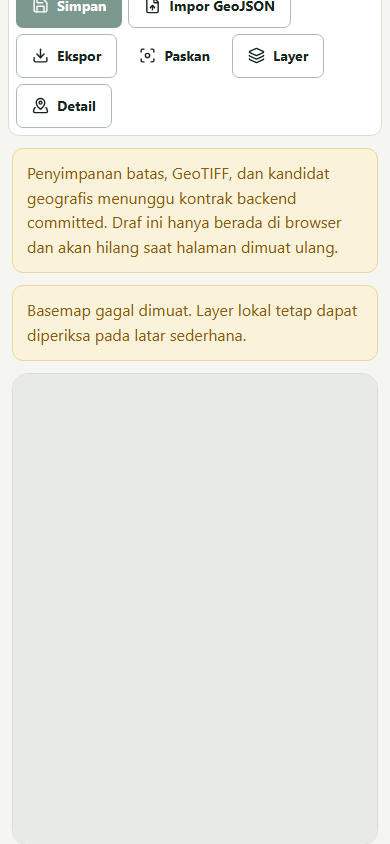
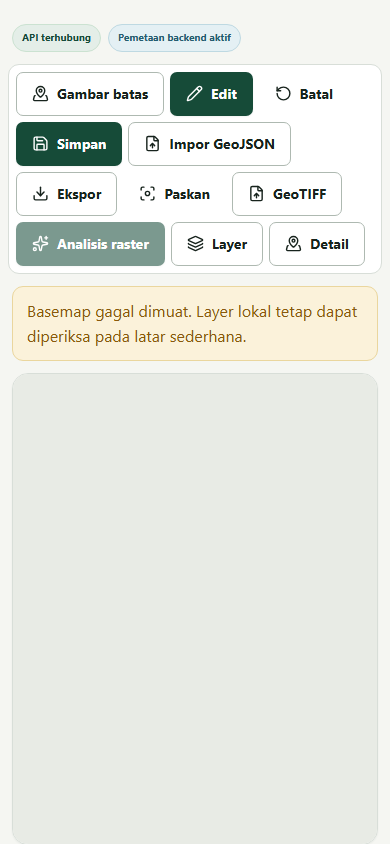
docs: hand off revision 5 mapping workspace

Changed region(s): [[0.0308, 0.0, 0.9846, 0.4313]]

diff --git a/docs/handoff/codex.md b/docs/handoff/codex.md
@@ -1,93 +1,84 @@
 # Codex frontend handoff — workspace pemetaan, 20 Oktober 2026
 
-## Delivery pemetaan
+## Delivery pemetaan revision 5
 
 - Branch/worktree: `agent/codex-mapping` / `D:\coding\wallacea-worktrees\codex-mapping`.
 - Base frontend: `1cb6d5183eebb458c4e341981503e0d70a164537`.
-- Commit implementasi shell peta: `472fe7563ba18b4866f8255eeab396a07ae82aed`.
-- Sumber kontrak terakhir yang sudah committed dan dibaca: Claude
-  `1ecda6c4eef476aaed84a212623c9ade9e696846`, OpenAPI revision 4.
-- Pada saat handoff ini ditulis, perubahan geospasial Claude masih belum committed.
-  Jangan mengintegrasikan file backend yang masih dirty; ambil SHA `CONTRACT_READY`
-  baru dari Claude lebih dahulu.
-- Tidak ada push, merge `main`, deploy, perubahan backend/OpenAPI, model, atau dataset.
+- Commit shell awal: `472fe7563ba18b4866f8255eeab396a07ae82aed`, disusul
+  `0c327c2`, `e04ae04`, `834f411`, dan `a3c9a2c`.
+- Sumber kebenaran Claude: backend `40ba48764e9107f3aafb253b8bf9a4431a4e9977`,
+  OpenAPI revision 5 `f2e770f7f9a4b51b0923ccc49971c0c6c7ffc2c2`, dan docs
+  `1d1d36ce858bbc2a1d2b1a468bdcd56e1ef910d2`.
+- Commit integrasi revision 5: `e0c598d` (`feat(web): integrate revision 5 mapping
+  API`). Commit dokumentasi/screenshot menyusul commit ini. Tidak ada push, merge
+  `main`, deploy, perubahan backend/OpenAPI, model, atau dataset.
 
-### Yang sudah tersedia
+### Sebelum / sesudah
 
-- Navigasi survei eksplisit **Peta lahan / Foto & AI / Laporan**. Editor foto,
-  persistence anotasi, transformasi koordinat normalized, dan laporan existing tidak
-  diubah.
-- Workspace MapLibre dominan dengan panel layer/detail yang dapat diringkas pada
-  desktop dan Sheet pada tablet/HP.
-- Terra Draw Polygon/select untuk menggambar dan mengedit draf; impor menerima tepat
-  satu Polygon/MultiPolygon WGS84 dengan urutan longitude, latitude. GeoJSON invalid,
-  range koordinat, ring terbuka, dan jumlah feature ditolak dengan pesan Indonesia.
-- Turf menampilkan luas/keliling sebagai **Preview Turf**, bukan angka tersimpan.
-  Ekspor GeoJSON mempertahankan geometry dan menambahkan nama/sumber draf.
-- Basemap OpenStreetMap dikonfigurasi dengan atribusi terlihat dan label jelas bahwa
-  ia membutuhkan internet serta bukan citra satelit. Bila tile gagal, boundary lokal
-  tetap terlihat pada fallback netral.
-- Draft map ikut proteksi navigasi dan `beforeunload`; hapus draf memakai konfirmasi.
-- MapLibre/Terra Draw/Turf dimuat lewat lazy chunk sehingga editor foto tidak menarik
-  bundle GIS ketika workspace peta belum dibuka.
+Sebelum revision 5, workspace hanya memiliki draf batas lokal: simpan dan GeoTIFF
+dinonaktifkan karena kontrak belum tersedia. Sesudah integrasi, frontend memakai API
+nyata untuk CRUD/impor batas, tautan `Survey.field_id`, metrik geodesik authoritative,
+`If-Match` dan pemulihan konflik; upload/progress/tile GeoTIFF dengan bounds dan CRS;
+serta run dan kandidat geografis pending/accepted/rejected.
 
-### Batas kontrak yang sengaja tidak dipalsukan
+Map tetap menjadi fokus. Panel desktop dapat diringkas; tablet/HP memakai Sheet. Terra
+Draw menangani gambar/edit Polygon, Turf hanya memberi preview sebelum save, dan
+MapLibre menampilkan tile raster serta kandidat berdasarkan geometri WGS84 dari API.
+Foto biasa tidak diproyeksikan. Impor GeoTIFF tidak diklaim sebagai orthomosaic atau
+georeferensi yang diverifikasi WALLACEA.
 
-Revision 4 belum memiliki boundary CRUD, raster GeoTIFF, tile/bounds/CRS, atau kandidat
-AI geografis. Karena itu tombol **Simpan** dan **Unggah GeoTIFF** tetap disabled dengan
-alasan yang terlihat; draf diberi label lokal dan dinyatakan hilang saat reload. Tidak
-ada endpoint buatan, persistence palsu, proyeksi foto JPG/PNG, polygon otomatis, atau
-hasil AI geografis. Kebutuhan lengkap tercatat di
-`docs/requests/codex-mapping-contract.md` sebagai CR-FE-005.
+Simulasi memakai banner permanen **SIMULASI — BUKAN AI**, kandidat dimulai sebagai
+pending, skor disebut skor model, dan hanya kandidat `kind=plant` yang accepted masuk
+hitungan per-raster. Laporan menambahkan batas dan ringkasan tiap raster serta menolak
+klaim bahwa hitungan lintas raster/penerbangan adalah tanaman unik.
 
-Setelah Claude memberi kontrak committed, frontend masih harus menghubungkan:
+Basemap memakai tile standar OpenStreetMap dengan atribusi terlihat dan penjelasan
+bahwa layanan memerlukan internet serta bukan citra satelit. Kegagalan tile tidak
+menyembunyikan boundary/raster lokal. CR-FE-005 kini ditandai dipenuhi; tidak ada
+request kontrak baru.
 
-1. boundary query/mutation + `If-Match`, backend metrics authoritative, conflict/reload;
-2. upload/status/tile GeoTIFF, opacity, bounds, footprint, metadata CRS;
-3. geographic findings, detail raster/run, filter pending/accepted/rejected, dan
-   accepted-only summary;
-4. capability/limit discovery granular, lalu tes API nyata untuk save/reload, edit,
-   cancel, conflict, delete, raster placement, dan review kandidat.
+### Verifikasi aktual
 
-### Verifikasi aktual pemetaan
-
+- `pnpm --filter @wallacea/web generate:api`: lulus dari OpenAPI revision 5.
 - `pnpm install --frozen-lockfile`: lulus; lockfile supply-chain check lulus.
-- Type generation dari OpenAPI committed Claude revision 4: lulus dan menghasilkan
-  tidak ada diff pada `apps/web/src/api/schema.d.ts`.
 - `pnpm typecheck:web`: lulus.
 - `pnpm --filter @wallacea/web test`: **26/26 lulus** dalam 5 file.
-- `pnpm build:web`: lulus; warning chunk MapLibre/editor >500 kB tetap tercatat.
-- `pnpm peers check`: lulus, tidak ada masalah peer dependency.
+- `pnpm build:web`: lulus. Vite hanya memperingatkan chunk MapLibre/editor >500 kB;
+  workspace GIS sudah lazy-loaded dan menjadi chunk terpisah.
+- `pnpm peers check`: lulus tanpa masalah peer dependency.
 - `git diff --check`: lulus.
-- Focused Playwright mapping: **6/6 lulus** pada Chromium 1440×900, 820×1180,
-  dan 390×844. Skenario menguji impor boundary QA sintetis, preview, UI responsif,
-  Sheet, API capability tidak tersedia, tombol save disabled, GeoJSON invalid, dan
-  tile OSM yang sengaja digagalkan. Ini tes UI/kontrak lokal, bukan integrasi backend.
-- Screenshot viewport yang diperiksa: `docs/handoff/screenshots/mapping/desktop.png`,
-  `tablet.png`, dan `mobile.png`. Desktop/tablet memperlihatkan boundary tetap terlihat
-  pada fallback ketika tile gagal; mobile memverifikasi toolbar wrap dan kanvas tanpa
-  panel permanen.
-- Regresi Playwright workspace existing dijalankan terhadap snapshot API Claude
-  revision 4 yang committed, pada DB QA terpisah: run pertama **15/18 lulus** dan tiga
-  kegagalan identik hanya karena selector `/Laporan/` menjadi ambigu setelah navigasi
-  baru. Selector dipersempit ke nav `Ruang kerja survei`; ketiga skenario gagal tadi
-  kemudian **3/3 lulus** pada desktop/tablet/mobile. Alurnya mencakup demo, multi-upload,
-  EXIF, anotasi manual, undo/redo, save/reload, konflik, API offline/retry, ekspor,
-  laporan, backup, edit/delete survei, dan isolasi foto.
-- Tes API nyata untuk persistence/raster/geographic findings **belum dapat dijalankan**
-  karena kontrak/commit Claude belum tersedia. Tes regresi API existing tidak diklaim
-  dijalankan ulang pada delivery pemetaan ini; hasil delivery frontend sebelumnya ada
-  di bagian historis di bawah.
+- Backend revision 5 `python -m pytest`: **244 lulus, 2 skip**, dengan dua warning
+  Rasterio yang memang berasal dari fixture raster tanpa georeferensi/GCP.
+- Playwright status model: **3/3 lulus**; manual, configured, loaded, error, dan
+  simulasi diperiksa jujur pada desktop/tablet/mobile.
+- Playwright UI pemetaan terisolasi: **8 lulus, 1 skip**. Skip adalah emulasi gestur
+  gambar sentuh mobile; impor GeoJSON, validasi, Sheet, dan responsivitas mobile lulus.
+- Playwright API revision 5: **6/6 lulus** pada Chromium 1440×900, 820×1180, dan
+  390×844. Alur mencakup save/reload batas, metrik backend, konflik/reload, cancel,
+  ekspor/hapus, upload GeoTIFF nyata, TileJSON/bounds, simulasi pending→accepted,
+  laporan accepted-only, dan penghapusan raster.
+- Regresi workspace foto terhadap API revision 5 mode manual: **18/18 lulus** pada
+  ketiga viewport. Ini mencakup demo, multi-upload/EXIF/invalid, draf/undo/redo,
+  save/reload, konflik, proteksi navigasi, API offline/retry, canvas zoom/pan,
+  ekspor, backup, laporan, serta edit/delete survei.
+- Inferensi model asli tidak dijalankan karena bobot tanaman terlatih tidak tersedia.
+  Pengujian kandidat geografis memakai detector simulasi backend dan selalu diberi
+  label data QA/bukan AI.
+
+Screenshot baseline shell lokal: `docs/handoff/screenshots/mapping/desktop.png`,
+`tablet.png`, `mobile.png`. Screenshot revision 5 dengan raster/kandidat dan keadaan
+review setara: `rev5-desktop.png`, `rev5-tablet.png`, `rev5-mobile.png`. Semuanya telah
+diperiksa pada ukuran viewport yang tepat; basemap sengaja digagalkan agar fallback,
+raster lokal, atribusi, dan pesan offline dapat diverifikasi deterministik.
 
 ### Urutan integrasi yang aman
 
-1. Minta SHA final Claude yang menyatakan `CONTRACT_READY` untuk mapping, lalu integrasikan
-   commit backend/migrasi/OpenAPI itu ke `integration/wallacea-mvp`.
-2. Regenerasi tipe dari snapshot tersebut dan selesaikan adapter API di branch Codex;
-   jangan memakai nama endpoint dari CR-FE-005 sebagai fakta kontrak.
-3. Cherry-pick `472fe75`, lalu commit integrasi API lanjutan dan commit handoff terbaru.
-4. Jalankan export/check kontrak, migrasi DB sementara, seluruh pytest backend, typecheck,
-   Vitest, build, peer check, dan Playwright API nyata pada tiga viewport.
+1. Cherry-pick Claude `40ba487`, lalu `f2e770f`, lalu `1d1d36c` ke
+   `integration/wallacea-mvp` jika commit itu belum ada.
+2. Cherry-pick rangkaian Codex `472fe75`, `0c327c2`, `e04ae04`, `834f411`,
+   `a3c9a2c`, lalu `e0c598d`, kemudian commit dokumentasi/screenshot sesudahnya.
+3. Jalankan export/check kontrak, migrasi DB sementara, seluruh pytest backend,
+   typecheck, Vitest, build, peer check, serta kedua suite Playwright API nyata.
 
 ---
 

diff --git a/apps/web/README.md b/apps/web/README.md
@@ -1,8 +1,8 @@
 # WALLACEA web
 
 React frontend for API v1. Generated types consume the additive contract revision
-4 from Claude's latest backend handoff while remaining compatible with revisions
-1–3. No
+5 from Claude's latest backend handoff while remaining compatible with revisions
+1–4. No
 mock service is enabled by default. The application needs the real FastAPI service.
 
 ## Run
@@ -29,14 +29,17 @@ Vite preview does not provide the development API proxy.
   workspaces. The map workspace uses MapLibre and Terra Draw for an honest local
   boundary draft, and accepts exactly one valid WGS84 Polygon/MultiPolygon GeoJSON.
 - Boundary area/perimeter shown before save are clearly labelled **Preview Turf**.
-  They are not backend measurements. The committed revision-4 API has no boundary,
-  raster, or geographic-finding endpoint, so save and GeoTIFF upload remain disabled
-  with an explanation. See `docs/requests/codex-mapping-contract.md`.
+  After save, revision-5 backend geodesic measurements become authoritative. Boundary
+  create/update/delete uses revision checks and conflict recovery, while GeoJSON import
+  and export preserve WGS84 longitude/latitude geometry.
 - The default basemap is the online OpenStreetMap standard raster service with
   visible attribution. It is not satellite imagery and is not available offline.
   If tiles fail, local boundary geometry remains usable over a neutral background.
-- GeoTIFF is intentionally separate from ordinary JPG/PNG photo upload. The browser
-  does not pretend an ungeoreferenced image belongs at a map location.
+- GeoTIFF is intentionally separate from ordinary JPG/PNG photo upload. Revision 5
+  stores the raster server-side and exposes bounded tiles; the browser does not pretend
+  an ungeoreferenced image belongs at a map location. Imported raster georeferencing is
+  displayed as supplied and is not claimed to be verified or an orthomosaic generated
+  by WALLACEA.
 - The primary flow is **Buat survei → Unggah foto → Analisis & review → Laporan**.
   Desktop uses a collapsible survey sidebar and persistent review panel. Tablet
   and mobile use Sheets for navigation, photo selection, and candidate review.
@@ -63,9 +66,10 @@ Vite preview does not provide the development API proxy.
 - Reports use real API counts per photo. CSV comes from the API. PNG annotates
   the currently displayed photo with survey/date/review legend. PDF uses the
   browser's Print / Save as PDF flow and the report print stylesheet.
-- Georeferencing remains a separate future feature, gated by real API
-  capabilities/data. No map package, invented coordinates, or photogrammetry
-  claims are included.
+- Geographic raster candidates remain pending until review. Only accepted plant
+  candidates enter each raster's confirmed count; counts from overlapping rasters or
+  flights are not presented as unique plants. No invented coordinates, automatic
+  photo georeferencing, or photogrammetry claims are included.
 
 ## Photo analysis and review
 

diff --git a/docs/requests/codex-mapping-contract.md b/docs/requests/codex-mapping-contract.md
@@ -1,8 +1,9 @@
 # CR-FE-005 — kontrak workspace pemetaan lahan
 
 - Diajukan: Codex, 2026-10-20, branch `agent/codex-mapping`
-- Sumber yang diperiksa: `agent/claude-backend` @ `1ecda6c`, OpenAPI revision 4
-- Status: menunggu kontrak committed Claude; frontend tidak memanggil endpoint di bawah sebelum tersedia.
+- Sumber yang diperiksa: `agent/claude-backend` @ `f2e770f`, OpenAPI revision 5
+- Status: **dipenuhi** oleh backend `40ba487`, kontrak `f2e770f`, dan dokumentasi
+  `1d1d36c`; frontend mengonsumsi snapshot committed tersebut.
 
 ## Tujuan
 
@@ -55,3 +56,22 @@ backend yang sah.
 - OpenAPI, fixture sukses/error/conflict, CHANGELOG, dan handoff committed.
 - Fixture memuat polygon/raster/kandidat berlabel QA sintetis, bukan data lapangan nyata.
 - Backend menghitung metrik geometry dan membuktikan tile bounds pada tes integrasi.
+
+## Penyelesaian revision 5
+
+Kontrak final menggunakan boundary global di `/fields` lalu menautkannya melalui
+`Survey.field_id`, bukan endpoint boundary yang bersarang langsung di bawah survei.
+Ini memenuhi kebutuhan ownership tanpa frontend menebak endpoint. Impor mengembalikan
+`FieldImportResult`; update/delete batas dan review kandidat memakai `If-Match`.
+
+Raster tersedia melalui `/surveys/{survey_id}/rasters` dan `/rasters/{raster_id}`,
+dengan TileJSON, bounds WGS84, CRS sumber, footprint, run analisis, dan kandidat peta.
+Health menyediakan capability granular dan limit raster/batas. Laporan memuat ringkasan
+batas serta per-raster dengan hitungan accepted-only. Kontrak juga menegaskan bahwa:
+
+- impor GeoTIFF bukan pembuatan atau verifikasi orthomosaic;
+- foto biasa tidak dianggap tergeoreferensi;
+- kandidat simulasi bukan keluaran AI;
+- hitungan antar-raster tidak membuktikan tanaman unik.
+
+Tidak ada request kontrak lanjutan yang diperlukan untuk delivery frontend ini.
